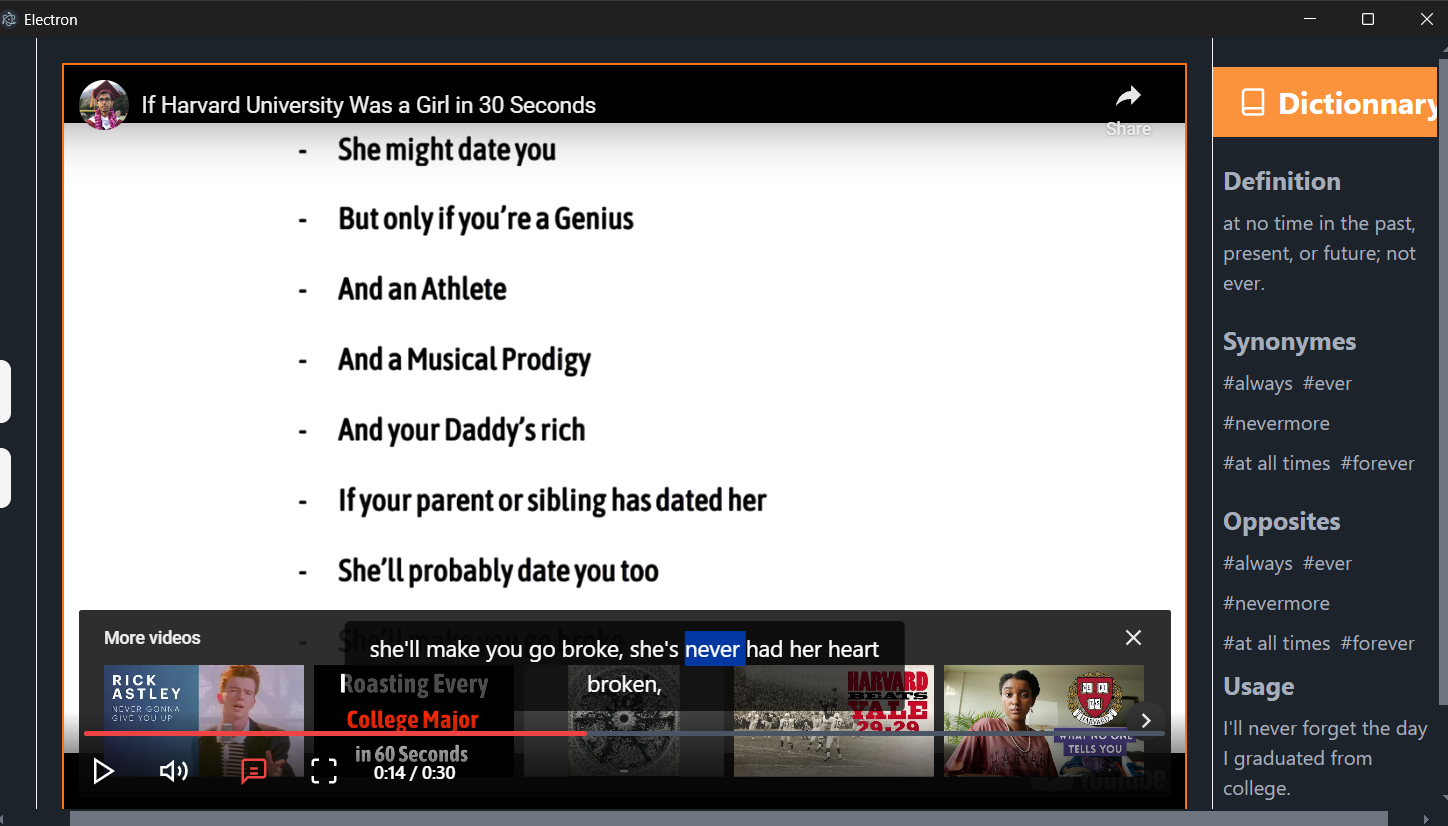
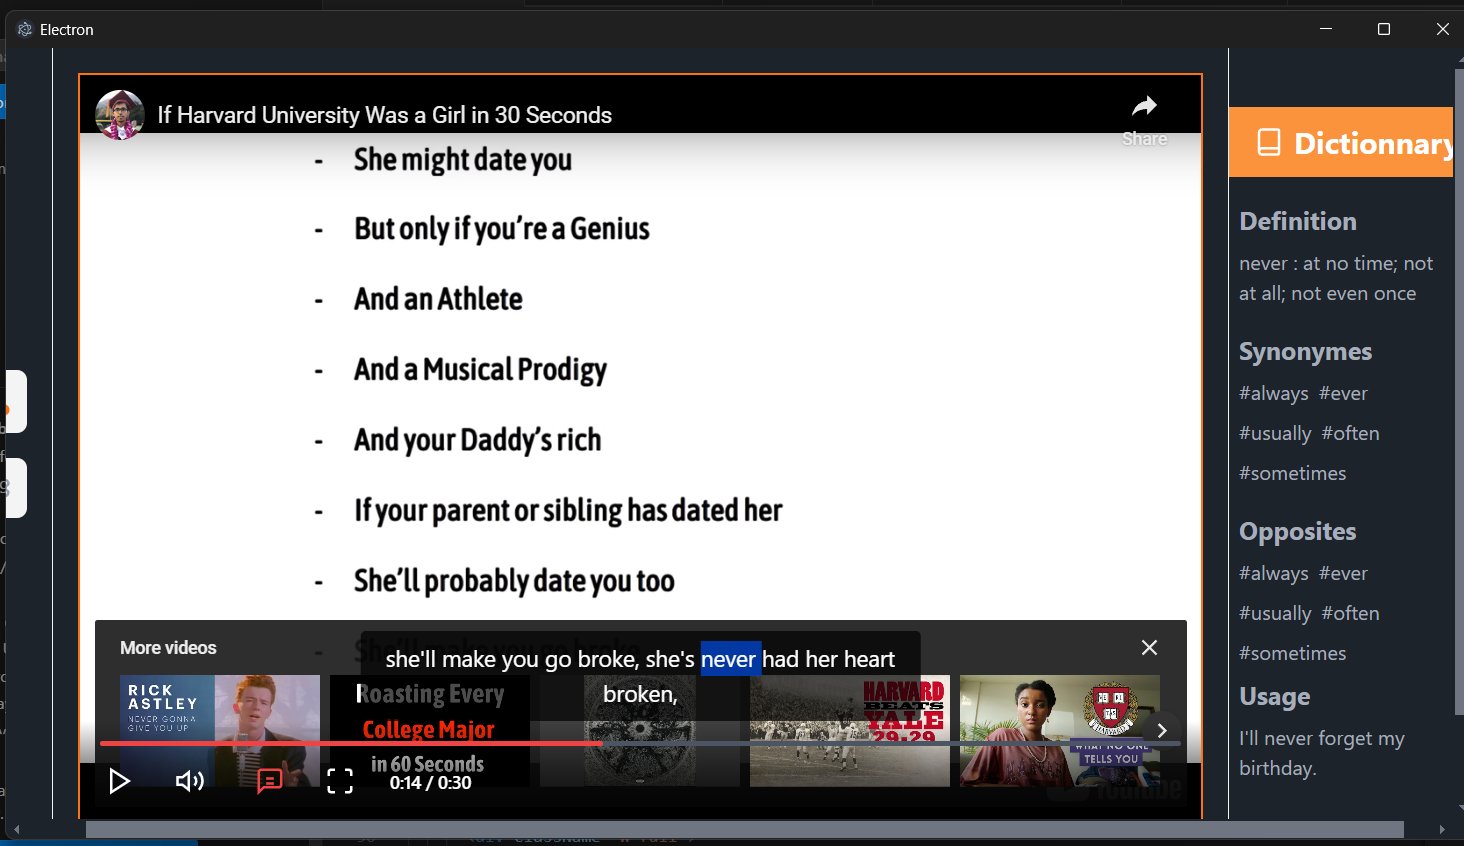
fix: update definition format in WordInfo component

diff --git a/src/renderer/src/components/WordInfo.tsx b/src/renderer/src/components/WordInfo.tsx
@@ -39,7 +39,7 @@ const WordInfo: React.FC = () => {
         setSynonyms(res.antonyms)
         setOpposites(res.antonyms)
         setUsage(res.usage)
-        setDef(res.definition)
+        setDef(selectedWord+" : "+res.definition)
 })
     }
   }, [selectedWord])
